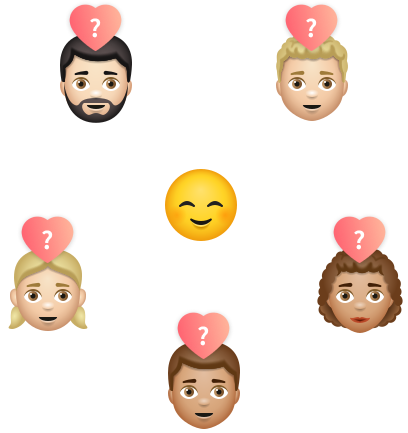
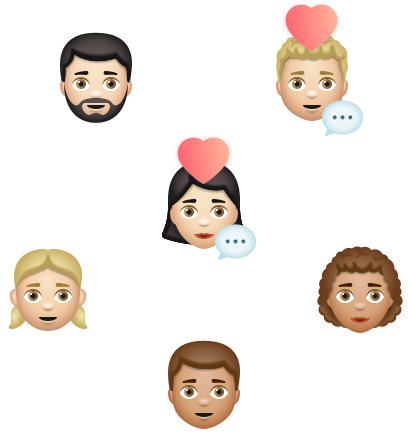
feat: 🎸 [Frontend] 도움말 익명 채팅 안내 추가

diff --git a/frontend/src/pages/AboutService.tsx b/frontend/src/pages/AboutService.tsx
@@ -10,7 +10,7 @@ const AboutService = () => {
   useDocumentTitle('서비스 소개 | 좋아하면 누르는');
 
   const navigate = useNavigate();
-  const { pageId } = useParams<{ pageId: '0' | '1' | '2' | '3' }>();
+  const { pageId } = useParams<{ pageId: '0' | '1' | '2' | '3' | '4' }>();
 
   const content = [
     {
@@ -28,12 +28,16 @@ const AboutService = () => {
     },
     {
       imgSrc: '/images/about-service/about4.png',
+      description: '우연히 하트를 주고 받으면 익명 채팅을 할 수 있어요!',
+    },
+    {
+      imgSrc: '/images/about-service/about5.png',
       description: '사람들 속에 숨어서, 내 마음을 전해보세요!',
     },
   ];
 
   const btnClickHandler = () => {
-    if (pageId === '3') {
+    if (pageId === '4') {
       navigate('/');
     } else if (pageId) {
       navigate(`/about-service/${+pageId + 1}`);
@@ -52,10 +56,10 @@ const AboutService = () => {
         height="2.6rem"
         Radius="1.3rem"
         fontWeight="500"
-        ariaLabel={pageId === '3' ? '완료' : '다음'}
+        ariaLabel={pageId === '4' ? '완료' : '다음'}
         onClick={btnClickHandler}
       >
-        {pageId === '3' ? '완료' : '다음'}
+        {pageId === '4' ? '완료' : '다음'}
       </Button>
     </Container>
   );
